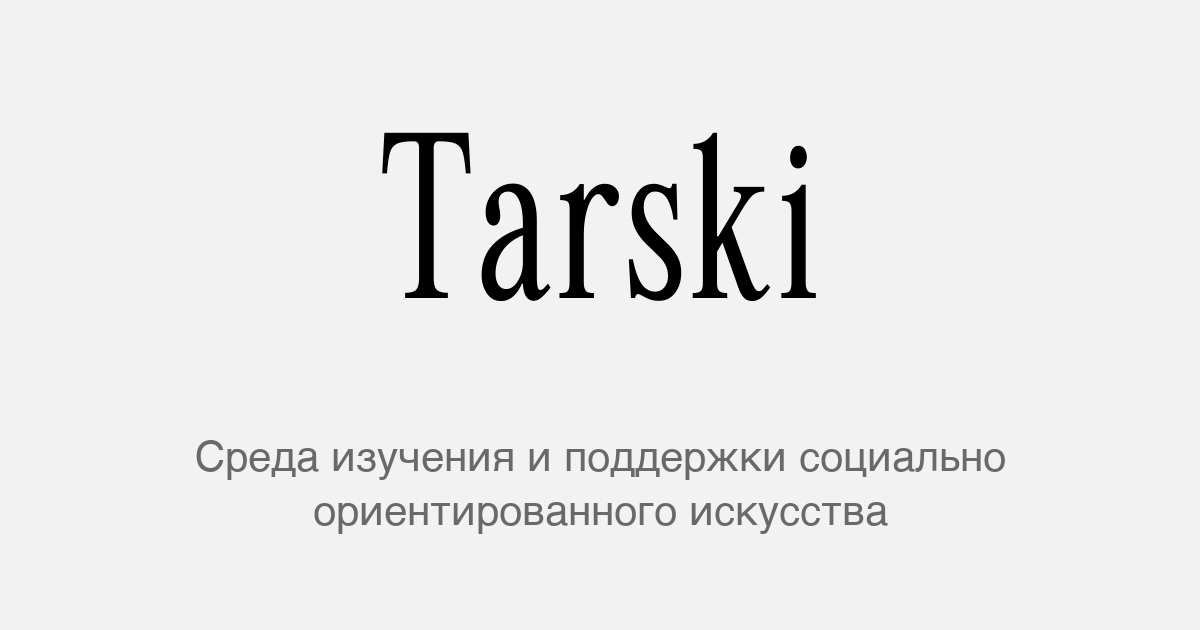
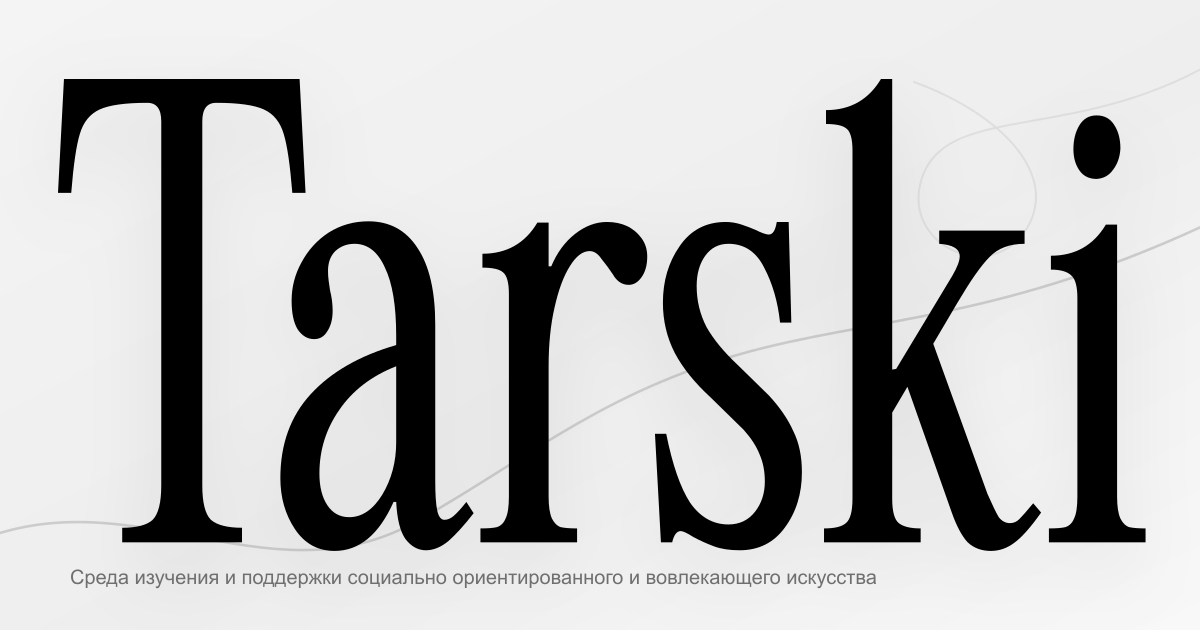
Refresh footer and sharing image

diff --git a/index.html b/index.html
@@ -52,16 +52,16 @@
     <meta property="og:locale" content="ru_RU" />
     <meta property="og:locale:alternate" content="en_US" />
     <meta property="og:locale:alternate" content="ja_JP" />
-    <meta property="og:image" content="https://tarski.ru/assets/og-image.png" />
+    <meta property="og:image" content="https://tarski.ru/assets/og-image.png?v=20260704-footer-og" />
     <meta property="og:image:width" content="1200" />
     <meta property="og:image:height" content="630" />
     <meta property="og:image:alt" content="Tarski" />
     <meta name="twitter:card" content="summary_large_image" />
     <meta name="twitter:title" content="Tarski" />
     <meta name="twitter:description" content="Среда изучения и поддержки социально ориентированного и вовлекающего искусства." />
-    <meta name="twitter:image" content="https://tarski.ru/assets/og-image.png" />
+    <meta name="twitter:image" content="https://tarski.ru/assets/og-image.png?v=20260704-footer-og" />
     <link rel="icon" href="assets/favicon.svg?v=20260701-caps-favicon" type="image/svg+xml" sizes="any" />
-    <link rel="stylesheet" href="styles.css?v=20260704-island-refactor" />
+    <link rel="stylesheet" href="styles.css?v=20260704-footer-og" />
   </head>
   <body>
     <noscript><div><img src="https://mc.yandex.ru/watch/110320853" style="position:absolute; left:-9999px;" alt="" /></div></noscript>

diff --git a/styles.css b/styles.css
@@ -1565,7 +1565,7 @@ html.has-open-dossier {
   --footer-column-gap: 34px;
   --footer-signature-width: min(100%, calc(100vw - (var(--page-padding-x) * 2) - var(--menu-width) - 84px));
   --footer-legal-column: min(680px, calc(var(--footer-signature-width) - var(--footer-meta-column) - var(--footer-column-gap)));
-  min-height: auto;
+  min-height: 100svh;
   padding-top: clamp(156px, 22vh, 220px);
   padding-bottom: 34px;
   text-align: left;